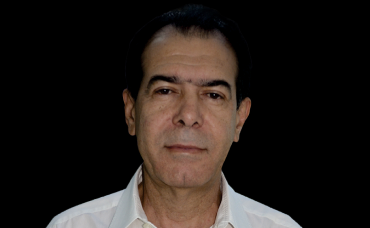
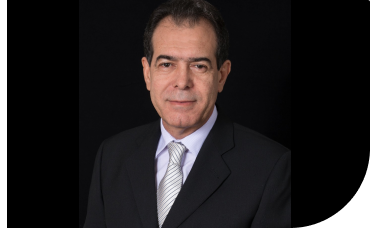
img fix

diff --git a/styles/team.css b/styles/team.css
@@ -58,6 +58,7 @@
 
 .advisor-img {
     border-radius: 2px 2px 80px 2px;
+    object-fit: cover;
     width: 100%;
     height: 230px;
     margin-bottom: 20px;
